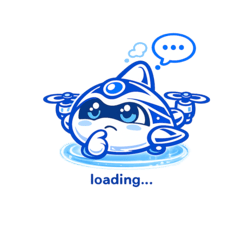
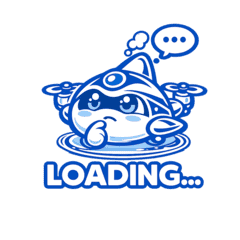
提交起来吧！

Changed region(s): [[0.175, 0.0875, 0.875, 0.7875]]

diff --git a/miniprogram/pages/markers/merchant-poster/index.js b/miniprogram/pages/markers/merchant-poster/index.js
@@ -32,7 +32,7 @@ const isHttpUrl = (value) => typeof value === "string" && /^https?:\/\//i.test(v
 Page({
   data: {
     loading: true,
-    loadingText: "海报生成中...",
+    loadingText: "海报加载中...",
     error: "",
     posters: [],
     currentIndex: 0,
@@ -84,7 +84,7 @@ Page({
       this.setData({ loading: false, error: "缺少商户信息" });
       return;
     }
-    this.setData({ error: "", loading: false, loadingText: "海报生成中..." });
+    this.setData({ error: "", loading: true, loadingText: "海报加载中..." });
     this.loadMerchantDetail()
       .then((detail) => {
         if (!detail) {
@@ -189,7 +189,7 @@ Page({
             }
             this.setData({
               loading: true,
-              loadingText: `海报生成中...(${index + 1}/${total})`
+              loadingText: `海报生成中...（第${index + 1}张/共${total}张）`
             });
             return requestWeappMerchantPoster(payload, { apiBase: this.apiBase, token: this.getAuthToken() })
               .then((result) => this.resolvePosterPath(result))
@@ -210,7 +210,7 @@ Page({
             }
             this.setData({
               loading: true,
-              loadingText: `海报生成中...(${index + 1}/${total})`
+              loadingText: `海报生成中...（第${index + 1}张/共${total}张）`
             });
             return requestWeappMerchantPoster(payload, { apiBase: this.apiBase, token: this.getAuthToken() })
               .then((result) => this.resolvePosterPath(result))
@@ -230,13 +230,48 @@ Page({
   applyPosterResult(posters = []) {
     const list = Array.isArray(posters) ? posters : [];
     const first = list[0] || {};
+    this.resetPosterLoadState(list);
     this.setData({
       posters: list,
       currentIndex: 0,
       activeBackground: first.path || first.backgroundUrl || "",
-      loading: false,
+      loading: list.length > 0,
+      loadingText: list.length ? "海报加载中..." : "",
       error: list.length ? "" : "暂无可用海报"
     });
+  },
+
+  resetPosterLoadState(list = []) {
+    this.posterLoadedMap = new Set();
+    this.posterLoadTotal = Array.isArray(list) ? list.length : 0;
+  },
+
+  handlePosterImageLoaded(index) {
+    if (!this.posterLoadedMap || this.posterLoadTotal <= 0) {
+      if (this.data.loading) {
+        this.setData({ loading: false });
+      }
+      return;
+    }
+    const safeIndex = Number(index);
+    if (Number.isNaN(safeIndex)) {
+      return;
+    }
+    if (this.posterLoadedMap.has(safeIndex)) {
+      return;
+    }
+    this.posterLoadedMap.add(safeIndex);
+    if (this.posterLoadedMap.size >= this.posterLoadTotal) {
+      this.setData({ loading: false });
+    }
+  },
+
+  onPosterImageLoad(e) {
+    this.handlePosterImageLoaded(e?.currentTarget?.dataset?.index);
+  },
+
+  onPosterImageError(e) {
+    this.handlePosterImageLoaded(e?.currentTarget?.dataset?.index);
   },
 
   getCacheKey(merchantId = "") {
@@ -267,7 +302,7 @@ Page({
               map[backgroundUrl] = saved;
             }
           })
-          .catch(() => {});
+          .catch(() => { });
       }
       return this.checkFileExists(path).then((exists) => {
         if (exists) {
